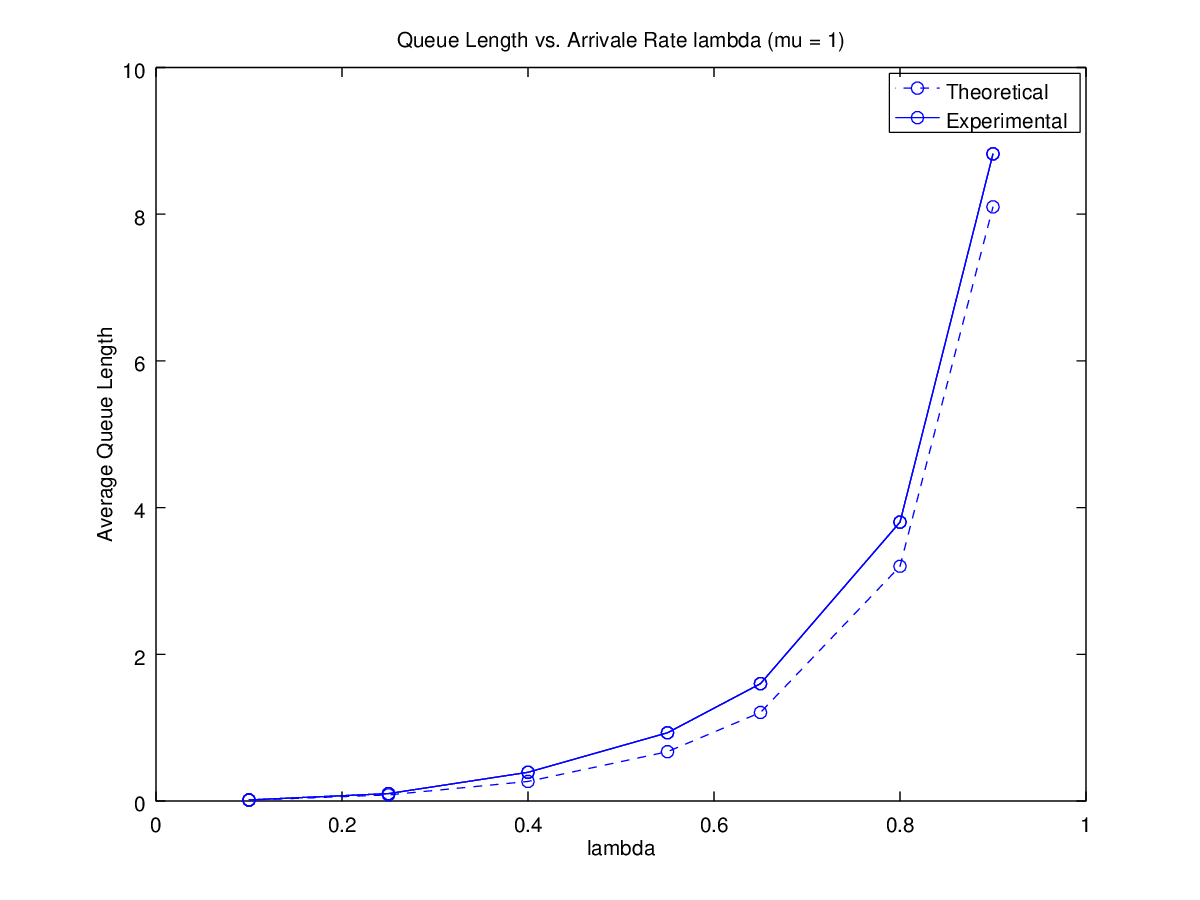
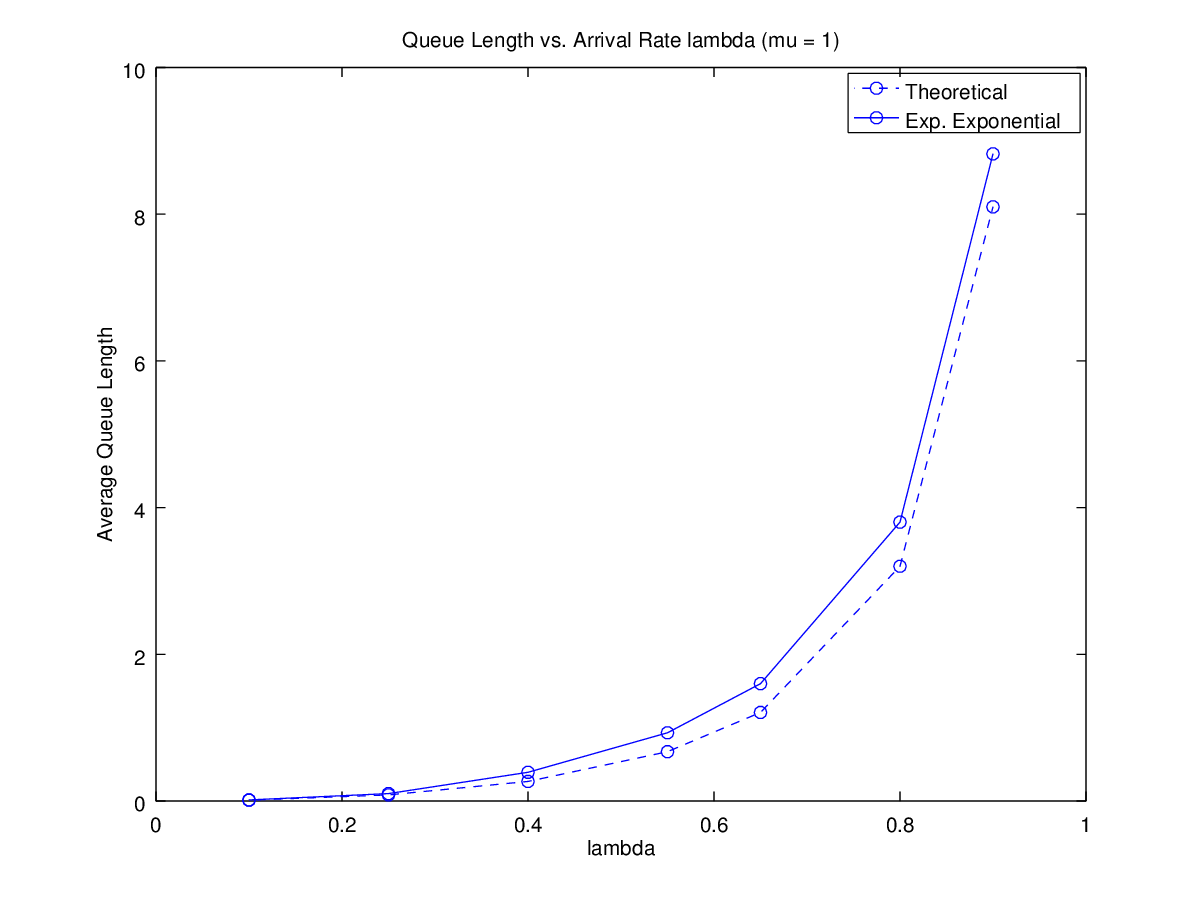
changed pareto rate range. This is the same version as in the report

Changed region(s): [[0.3392, 0.0311, 0.7092, 0.0622], [0.7092, 0.0933, 0.8942, 0.1556], [0.74, 0.56, 0.7708, 0.5911]]

diff --git a/calc.m b/calc.m
@@ -15,21 +15,34 @@ phase1p3ec = csvread('statsp3ec.csv');
 
 % Average queue length
 sim_N = phase1p1(:,4);
-%simp_N = phase1p1ec(:,4);
 
 figure;
 plot(lambda, N, '--o');
 hold on;
 plot(lambda, sim_N, '-o');
-plot(lambda, sim_N, '-o');
 
-title('Queue Length vs. Arrivale Rate \lambda (\mu = 1)');
+title('Queue Length vs. Arrival Rate \lambda (\mu = 1)');
 xlabel('\lambda');
 ylabel('Average Queue Length');
-legend('Theoretical','Experimental')
+legend('Theoretical','Exp. Exponential')
 
 set(gcf,'PaperUnits','inches','PaperPosition',[0 0 8 6])
+set(gcf,'visible','off');
 print('queue_length.png','-dpng');
+
+% Average queue length pareto
+sim_Nec = phase1p1ec(:,4);
+
+figure;
+plot(lambda*10, sim_Nec, '-.o');
+
+title('Queue Length vs. Rate \alpha (\mu = 1)');
+xlabel('\alpha');
+ylabel('Average Queue Length');
+
+set(gcf,'PaperUnits','inches','PaperPosition',[0 0 8 6])
+set(gcf,'visible','off');
+print('queue_length_ec.png','-dpng');
 
 % Utilization
 
@@ -43,10 +56,29 @@ plot(lambda, sim_ro, '-o');
 title('Utilitation vs. Arrival Rate \lambda (\mu = 1)');
 xlabel('\lambda');
 ylabel('Utilization Factor');
-legend('Theoretical','Experimental')
+legend('Theoretical','Experimental Exponential')
 
 set(gcf,'PaperUnits','inches','PaperPosition',[0 0 8 6])
+set(gcf,'visible','off');
 print('utilization.png','-dpng');
+
+
+% Utilization pareto
+
+sim_roec = phase1p1ec(:,5);
+
+figure;
+plot(lambda*10, sim_roec, '-.o');
+
+title('Utilitation vs. Rate \alpha (\mu = 1)');
+xlabel('\alpha');
+ylabel('Utilization Factor');
+
+set(gcf,'PaperUnits','inches','PaperPosition',[0 0 8 6])
+set(gcf,'visible','off');
+print('utilization_ec.png','-dpng');
+
+
 
 
 % dropped packets
@@ -54,6 +86,7 @@ print('utilization.png','-dpng');
 dropped_1 = phase1p3(1:5,6)';
 dropped_20 = phase1p3(6:10,6)';
 dropped_50 = phase1p3(11:15,6)';
+
 lambda = [0.2 0.4 0.6 0.8 0.9];
 
 figure;
@@ -62,10 +95,34 @@ hold on;
 plot(lambda, dropped_20, '--o');
 plot(lambda, dropped_50, '.-o');
 
+
 title('Dropped Packets vs. Arrival Rate \lambda (\mu = 1)');
 xlabel('\lambda');
 ylabel('Dropped Packets');
 legend('1 element queue', '20 element queue', '50 element queue');
 
 set(gcf,'PaperUnits','inches','PaperPosition',[0 0 8 6])
+set(gcf,'visible','off');
 print('packets_dropped.png','-dpng');
+
+% Dropped pareto
+
+dropped_1ec = phase1p3(1:5,6)';
+dropped_20ec = phase1p3(6:10,6)';
+dropped_50ec = phase1p3(11:15,6)';
+
+figure;
+plot(lambda*10, dropped_1ec, '-o');
+hold on;
+plot(lambda*10, dropped_20ec, '--o');
+plot(lambda*10, dropped_50ec, '.-o');
+
+
+title('Dropped Packets vs. Arrival Rate \alpha (\mu = 1)');
+xlabel('\alpha');
+ylabel('Dropped Packets');
+legend('1 element queue', '20 element queue', '50 element queue');
+
+set(gcf,'PaperUnits','inches','PaperPosition',[0 0 8 6])
+set(gcf,'visible','off');
+print('packets_dropped_ec.png','-dpng');

diff --git a/phase1.py b/phase1.py
@@ -81,12 +81,13 @@ def exp_dist(rate):
     u = random()
     return ((-1/rate) * log(1-u))
 
+# times 10 rate
 def pareto_dist(rate):
     """
     Pareto Distribution
     """ 
     u = random()
-    return 1/((1-u)**(1/rate))
+    return 1/((1-u)**(1/(rate*10)))
 
 
 
